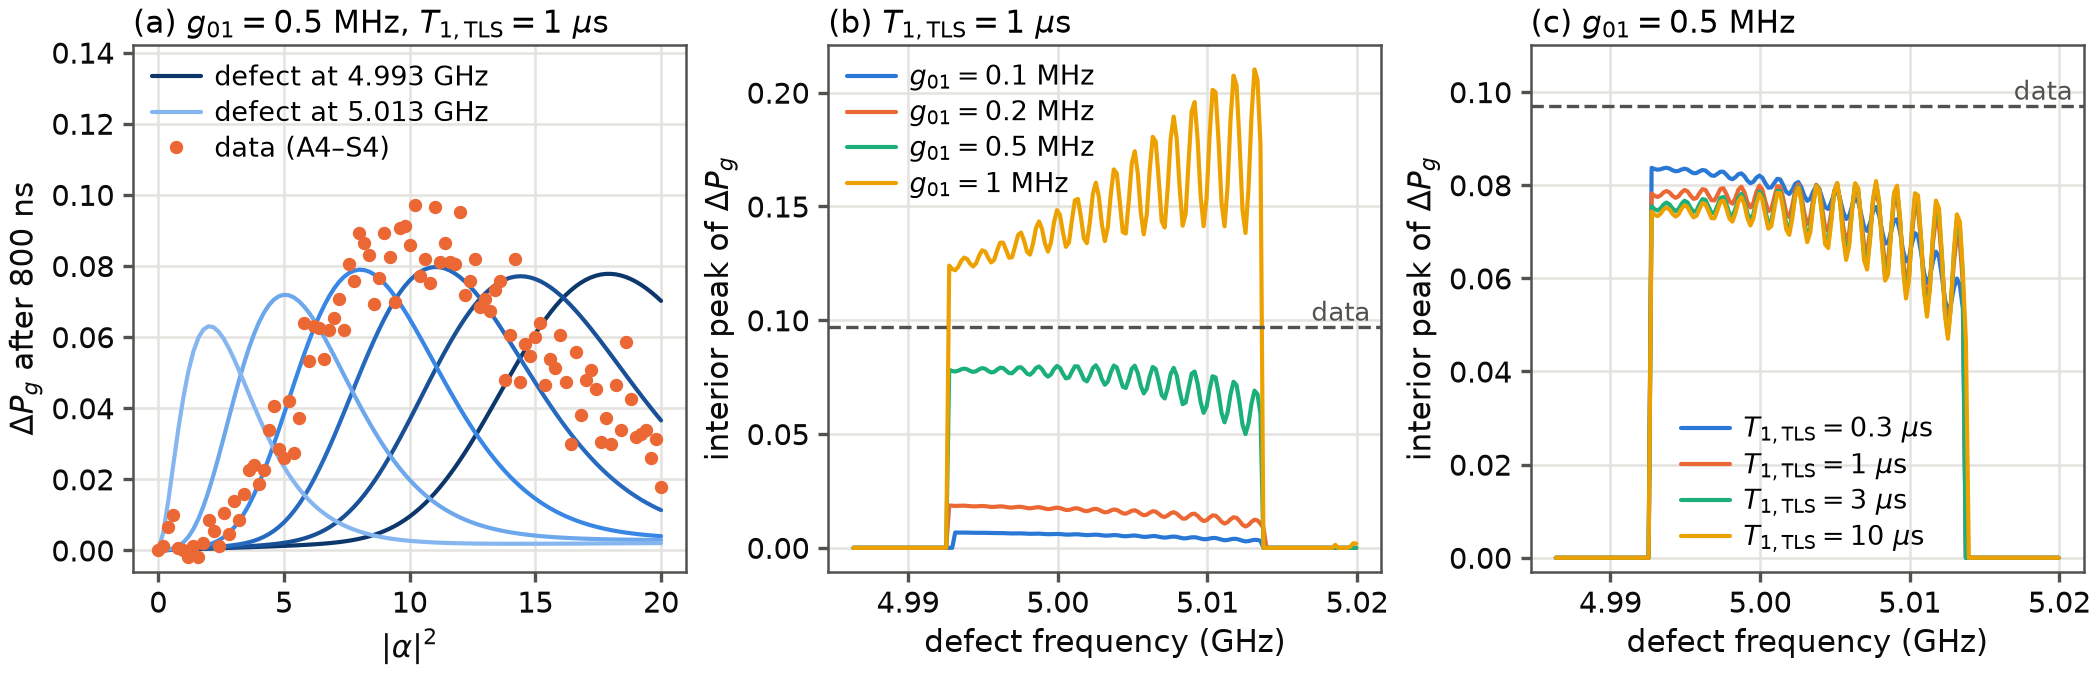
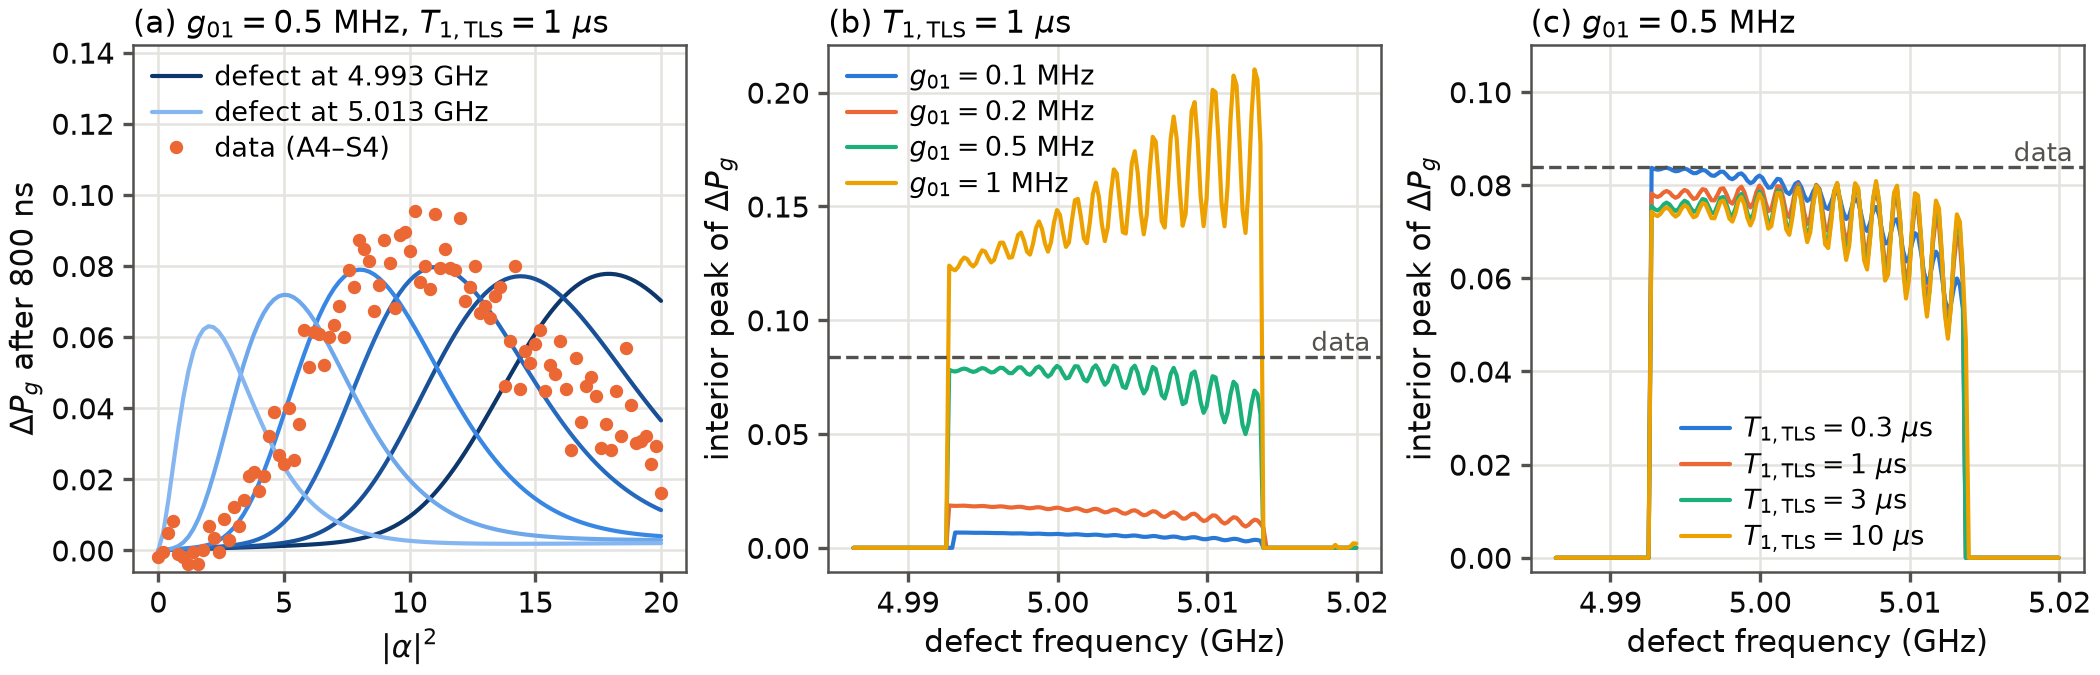
Paper figures: F9 peak line and coupler T1 label as in the text
prx_tls_family: the measured F9 peak is drawn at the seven-point mean above
the |alpha|^2 < 2 baseline (0.084, as in the paper) instead of the largest
point above the first one (0.097), and the data are plotted against that
baseline. prx_cx2_measured: the coupler T1 is labelled 2.37 us. Both
figures regenerated.

diff --git a/examples/prx_figures.py b/examples/prx_figures.py
@@ -478,7 +478,7 @@ def cx2_measured():
         ax.semilogy(x, col(sel, "data_fexcess"), "o", ms=3.5, mfc="none", mew=0.9, color=TEXT_PRIMARY, label="data")
         ax.semilogy(x, col(sel, "ffault_zerofit"), "-", color=SERIES[0], label=r"idle-referenced $T_1$")
         ax.semilogy(x, col(sel, "ffault_coupler18c"), "--", color=SERIES[2],
-                    label=rf"coupler loss, $T_{{1,c}}={num(sel[0]['coupler_T1_us']):.1f}~\mu$s")
+                    label=rf"coupler loss, $T_{{1,c}}={num(sel[0]['coupler_T1_us']):.2f}~\mu$s")
         if sel[0].get("ffault_ongate_coupler_on"):
             ax.fill_between(x, col(sel, "ffault_ongate_coupler_on"), col(sel, "ffault_ongate_pulsed_alpha2_4"),
                             color=SERIES[3], alpha=0.35, lw=0, label=r"measured on-gate $T_1$ (held to pulsed)")
@@ -539,7 +539,10 @@ def tls_family():
         ax.plot(nb, col(fam, k), color=BLUE_ORDINAL[i], lw=1.0,
                 label=f"defect at {float(k[1:]):.3f} GHz" if i in (0, len(keys) - 1) else None)
     a2, Pg = col(d, "alpha2"), col(d, "P_g")
-    ax.plot(a2, Pg - Pg[0], "o", ms=2.2, color=SERIES[1], label="data (A4–S4)")
+    base = Pg[a2 < 2].mean()  # baseline as in the text and Fig. bayes: mean of the points at |alpha|^2 < 2
+    ipk = int(np.argmax(Pg))
+    peak = Pg[ipk - 3:ipk + 4].mean() - base  # seven-point mean at the peak (paper App. E.1: 0.084)
+    ax.plot(a2, Pg - base, "o", ms=2.2, color=SERIES[1], label="data (A4–S4)")
     ax.set_xlabel(r"$|\alpha|^2$")
     ax.set_ylabel(r"$\Delta P_g$ after 800 ns")
     ax.set_ylim(-0.006, 0.142)
@@ -553,8 +556,8 @@ def tls_family():
     title(axs[1], r"(b) $T_{1,\rm TLS}=1~\mu$s")
     title(axs[2], r"(c) $g_{01}=0.5$ MHz")
     for ax, loc in ((axs[1], "upper left"), (axs[2], "lower center")):
-        ax.axhline(0.097, color=TEXT_SECONDARY, lw=0.8, ls="--")
-        ax.text(0.98, 0.097, "data", transform=ax.get_yaxis_transform(), ha="right", va="bottom", fontsize=6.3,
+        ax.axhline(peak, color=TEXT_SECONDARY, lw=0.8, ls="--")
+        ax.text(0.98, peak, "data", transform=ax.get_yaxis_transform(), ha="right", va="bottom", fontsize=6.3,
                 color=TEXT_SECONDARY)
         ax.set_xlabel("defect frequency (GHz)")
         ax.set_ylabel(r"interior peak of $\Delta P_g$")
